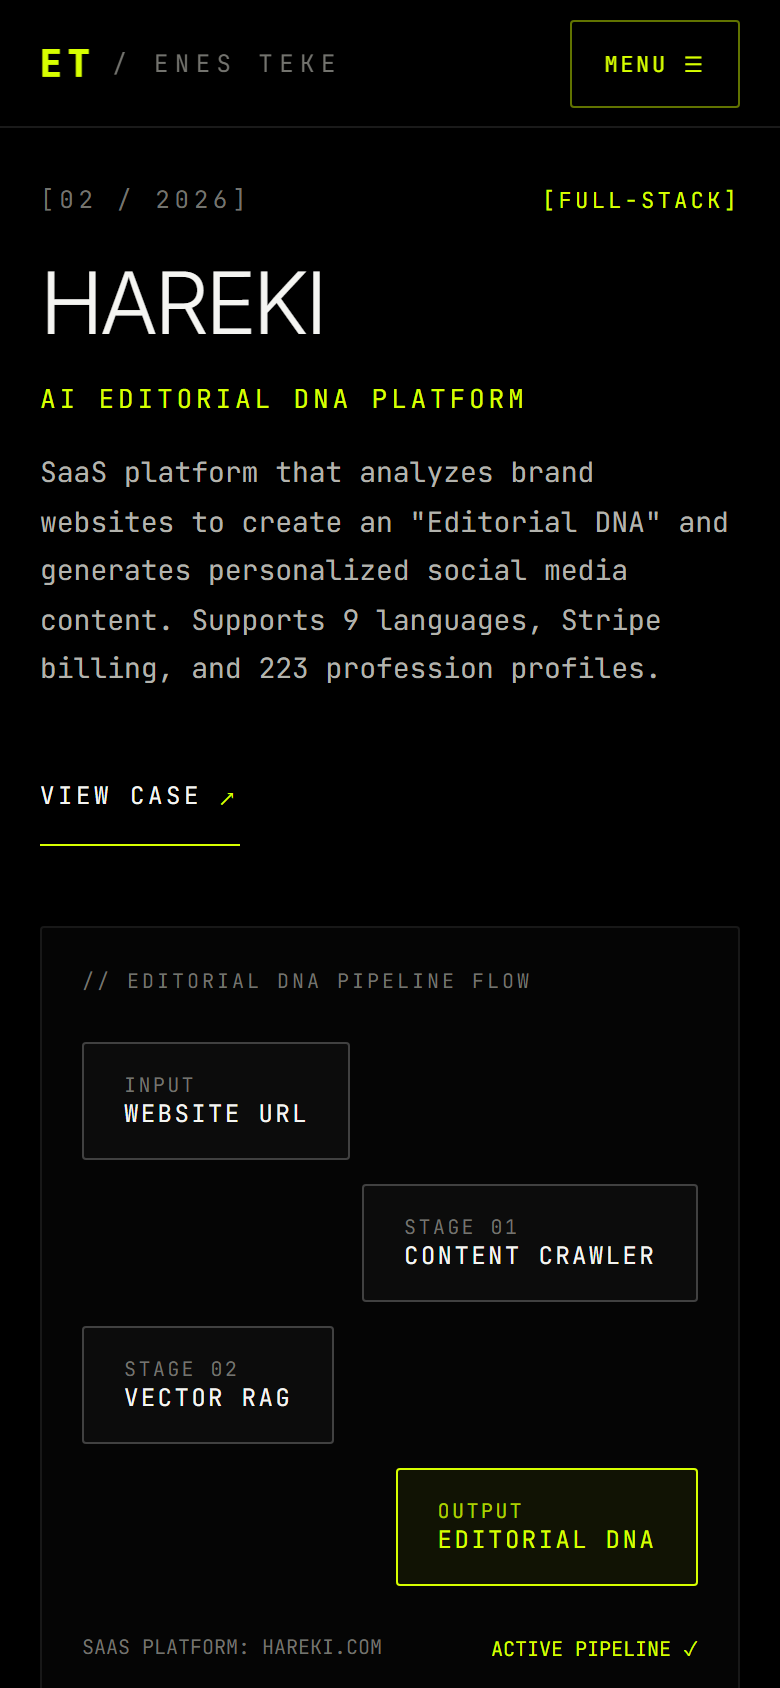
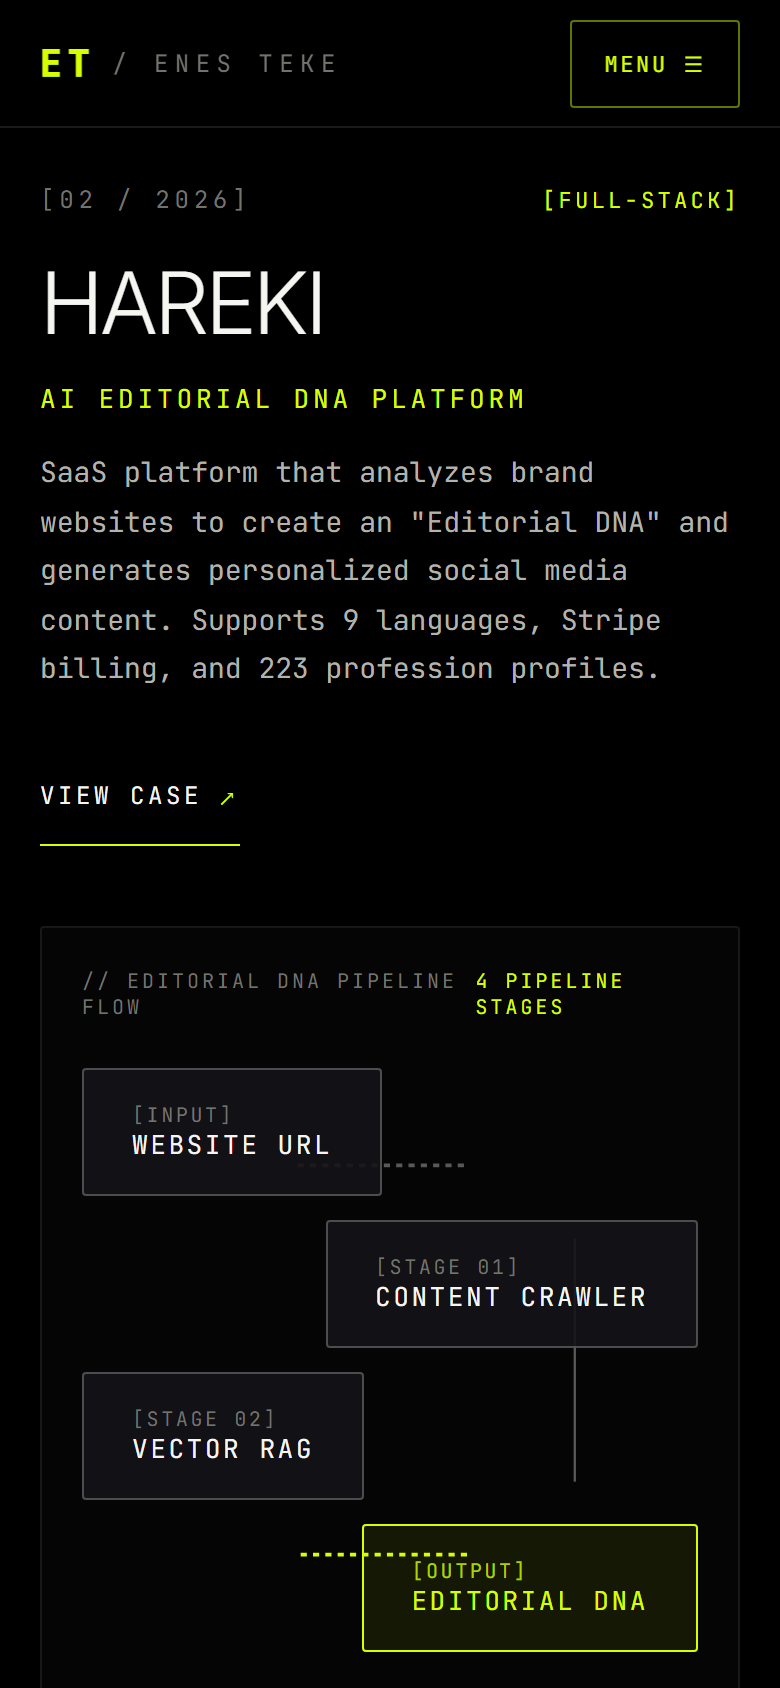
fix: complete mobile monogram clearance and pipeline direction

diff --git a/src/components/scene/ETMonogramScene.tsx b/src/components/scene/ETMonogramScene.tsx
@@ -126,26 +126,27 @@ export default function ETMonogramScene({
     switch (state) {
       case 'works':
       case 'manifesto':
-        // Clean offscreen fade for pure editorial black background
-        return { posX: 12.0, posY: 0, scale: 0.2, bgContrast: 0.04, wireframeOpacity: 0.0 };
+        return { posX: 12.0, posY: 0, scale: 0.1, bgContrast: 0.0, wireframeOpacity: 0.0 };
       case 'hero':
       default:
         return {
-          posX: isMobile ? 2.35 : 5.25,
-          posY: isMobile ? -3.85 : 0.08,
-          scale: isMobile ? 0.22 : 0.68,
-          bgContrast: isMobile ? 0.16 : 0.22,
-          wireframeOpacity: isMobile ? 0.006 : 0.025
+          posX: isMobile ? 2.55 : 5.25,
+          posY: isMobile ? -4.08 : 0.08,
+          scale: isMobile ? 0.17 : 0.68,
+          bgContrast: isMobile ? 0.14 : 0.22,
+          wireframeOpacity: isMobile ? 0.003 : 0.025
         };
     }
   };
 
   const targetTransformRef = useRef(getScrollTransform(scrollState));
+  const sceneVisibleRef = useRef(scrollState === 'hero');
   const onSceneReadyRef = useRef(onSceneReady);
   onSceneReadyRef.current = onSceneReady;
 
   useEffect(() => {
     targetTransformRef.current = getScrollTransform(scrollState);
+    sceneVisibleRef.current = scrollState === 'hero';
     if (renderSingleFrameRef.current) {
       renderSingleFrameRef.current();
     }
@@ -276,7 +277,7 @@ export default function ETMonogramScene({
       color: 0xd7ff00,
       wireframe: true,
       transparent: true,
-      opacity: isMobile ? 0.006 : 0.025,
+      opacity: isMobile ? 0.003 : 0.025,
     });
     const outlineMesh = new THREE.Mesh(geometry, outlineMaterial);
 
@@ -294,8 +295,16 @@ export default function ETMonogramScene({
     };
 
     let firstRenderSignaled = false;
+    let currentOpacity = 1;
+
     const renderPass = (time: number = 0) => {
       const target = targetTransformRef.current;
+      const targetOpacity = sceneVisibleRef.current ? 1 : 0;
+      currentOpacity += (targetOpacity - currentOpacity) * 0.08;
+      container.style.opacity = currentOpacity.toFixed(3);
+
+      if (currentOpacity < 0.01) return;
+
       logoGroup.position.set(target.posX, target.posY, 0);
       logoGroup.scale.set(target.scale, target.scale, target.scale);
       outlineMaterial.opacity = target.wireframeOpacity;
@@ -441,6 +450,7 @@ export default function ETMonogramScene({
         pointerEvents: 'none',
         overflow: 'hidden',
         backgroundColor: '#000000',
+        transition: 'opacity 0.5s ease',
       }}
     />
   );

diff --git a/src/sections/WorksSection.tsx b/src/sections/WorksSection.tsx
@@ -99,7 +99,7 @@ export default function WorksSection() {
                     )}
 
                     {index === 1 && (
-                      /* Variation 2: Architecture Data Flow Diagram with Prominent Connections */
+                      /* Variation 2: Architecture Data Flow Diagram with Explicit Arrow Markers */
                       <>
                         <div style={{ fontSize: '10px', color: '#73736e', letterSpacing: '0.15em', display: 'flex', justifyContent: 'space-between' }}>
                           <span>// EDITORIAL DNA PIPELINE FLOW</span>
@@ -114,12 +114,20 @@ export default function WorksSection() {
                             fill="none"
                             xmlns="http://www.w3.org/2000/svg"
                           >
+                            <defs>
+                              <marker id="pipeline-arrow" markerWidth="7" markerHeight="7" refX="6" refY="3.5" orient="auto">
+                                <path d="M0,0 L7,3.5 L0,7 Z" fill="rgba(245,245,242,.42)" />
+                              </marker>
+                              <marker id="pipeline-arrow-active" markerWidth="7" markerHeight="7" refX="6" refY="3.5" orient="auto">
+                                <path d="M0,0 L7,3.5 L0,7 Z" fill="rgba(215,255,0,.78)" />
+                              </marker>
+                            </defs>
                             {/* Top Stage 01 Arrow */}
-                            <path d="M 140 40 L 250 40" stroke="rgba(245, 245, 242, 0.35)" strokeWidth="1.5" strokeDasharray="4 4" />
+                            <path d="M 140 40 L 250 40" stroke="rgba(245, 245, 242, 0.34)" strokeWidth="1.25" strokeDasharray="5 7" markerEnd="url(#pipeline-arrow)" />
                             {/* Vertical Right Arrow */}
-                            <path d="M 320 70 L 320 170" stroke="rgba(245, 245, 242, 0.35)" strokeWidth="1.5" />
+                            <path d="M 320 70 L 320 170" stroke="rgba(245, 245, 242, 0.34)" strokeWidth="1.25" markerEnd="url(#pipeline-arrow)" />
                             {/* Bottom Active Output Arrow */}
-                            <path d="M 250 200 L 140 200" stroke="#d7ff00" strokeWidth="1.5" strokeDasharray="4 4" />
+                            <path d="M 250 200 L 140 200" stroke="rgba(215, 255, 0, 0.72)" strokeWidth="1.25" strokeDasharray="5 7" markerEnd="url(#pipeline-arrow-active)" />
                           </svg>
 
                           <div className={styles.pipelineNode}>

diff --git a/src/sections/HeroSection.tsx b/src/sections/HeroSection.tsx
@@ -18,6 +18,7 @@ export default function HeroSection({
   setNoiseScale,
 }: HeroSectionProps) {
   const [controlsOpen, setControlsOpen] = useState(false);
+  const isE2E = typeof window !== 'undefined' && new URLSearchParams(window.location.search).get('e2e') === '1';
 
   // Close controls dropdown on Escape key
   useEffect(() => {
@@ -32,6 +33,9 @@ export default function HeroSection({
 
   return (
     <section id="hero" className={styles.hero}>
+      {/* E2E Monogram Safe Area Target (Only rendered in E2E mode for automated testing) */}
+      {isE2E && <div data-monogram-safe-area="true" aria-hidden="true" />}
+
       {/* Top Header Status Line */}
       <div style={{ pointerEvents: 'auto', display: 'flex', justifyContent: 'space-between', alignItems: 'center', flexWrap: 'wrap', gap: '16px' }}>
         <div style={{ display: 'flex', alignItems: 'center', gap: '10px' }}>
@@ -94,7 +98,7 @@ export default function HeroSection({
         </p>
 
         {/* Refined Minimal Text Links (44px touch targets) */}
-        <div className={styles.heroCtaGroup}>
+        <div data-hero-actions="true" className={styles.heroCtaGroup}>
           <Link to="/work" className={styles.heroPrimaryCta}>
             EXPLORE ARCHIVE <span style={{ color: '#d7ff00' }}>→</span>
           </Link>
@@ -105,7 +109,7 @@ export default function HeroSection({
       </div>
 
       {/* Bottom Footer Status Line */}
-      <div style={{ pointerEvents: 'auto', display: 'flex', justifyContent: 'space-between', alignItems: 'flex-end', borderTop: '1px solid var(--line-secondary)', paddingTop: '20px' }}>
+      <div data-hero-status="true" style={{ pointerEvents: 'auto', display: 'flex', justifyContent: 'space-between', alignItems: 'flex-end', borderTop: '1px solid var(--line-secondary)', paddingTop: '20px' }}>
         <div style={{ fontSize: '11px', color: '#73736e', letterSpacing: '0.15em' }}>
           SCROLL TO DISCOVER ↓
         </div>

diff --git a/src/sections/HeroSection.module.css b/src/sections/HeroSection.module.css
@@ -88,4 +88,13 @@
     padding-top: calc(var(--header-height) + 20px);
     min-height: calc(100vh - var(--header-height));
   }
+
+  [data-monogram-safe-area] {
+    position: fixed;
+    right: 0;
+    bottom: 74px;
+    width: 24vw;
+    height: 18vh;
+    pointer-events: none;
+  }
 }
